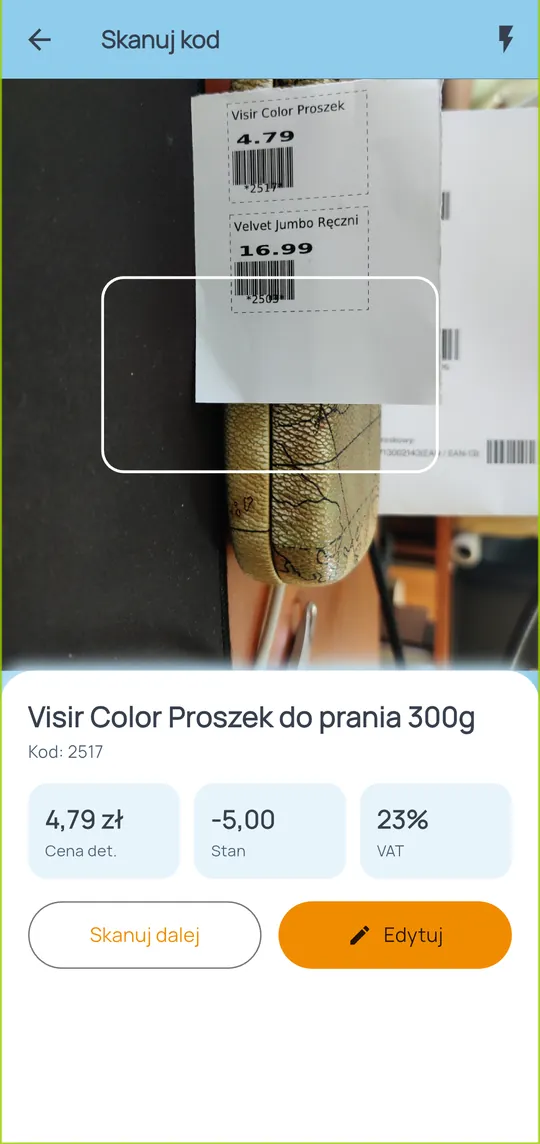
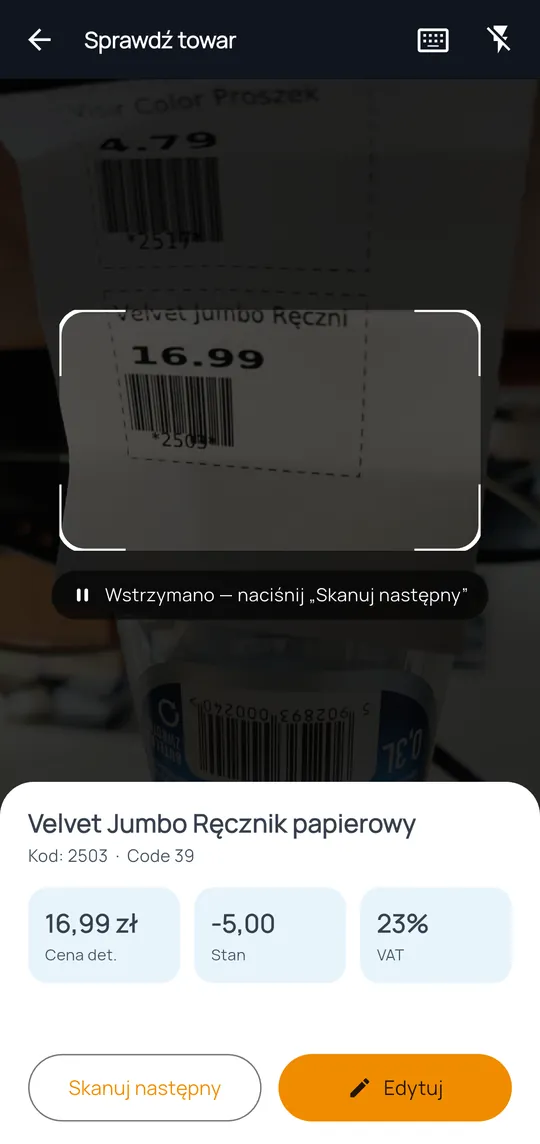
Strona i instrukcja: przebudowany skaner kodów
Zrzut skanera na stronie (`img/20-skaner.webp`) pokazywał starą wersję ekranu —
biały prostokąt bez maski i pusty pas pod kaflami. Nowy ma celownik z maską
i narożnikami, format odczytanego kodu i przyciski przypięte na dole.

Sekcja „Skaner przy półce" mówi teraz o trzech rzeczach, które w aplikacji
naprawdę się zmieniły i o które klienci pytają: czytany jest kod z ramki (a nie
dowolny z kadru), trafienie potwierdza bip i wibracja, a kod zniszczony można
wpisać z klawiatury bez wychodzenia ze skanera.

Instrukcja przebudowana z repo kodu — 67 zrzutów, w tym nowa karta „Skanowanie
do arkusza" i karta alergenów z ostrzeżeniem, że przy alergii decyduje etykieta
na opakowaniu.

Wchodzą też trzy zrzuty przygotowane w poprzedniej sesji (30–31.07), które
zostały wtedy niewypchnięte: obrót opakowaniami i tablet w poziomie.

diff --git a/instrukcja/index.html b/instrukcja/index.html
@@ -3,7 +3,7 @@
 <head>
 <meta charset="utf-8">
 <meta name="viewport" content="width=device-width, initial-scale=1">
-<title>NoviCloud GO 0.39.7 — instrukcja obsługi</title>
+<title>NoviCloud GO 0.40.1 — instrukcja obsługi</title>
 <meta name="description" content="Instrukcja obsługi aplikacji NoviCloud GO: logowanie, pulpit, raporty, dokumenty, towary ze skanerem, remanent, karty lojalnościowe, Doradca i powiadomienia.">
 <meta name="theme-color" content="#101a2a">
 <link rel="icon" href="../img/monogram.svg" type="image/svg+xml">
@@ -172,7 +172,7 @@ footer.stopka strong { color:var(--tekst); }
 <header class="masthead"><div class="in">
 <svg class="mono" viewBox="0 0 462 331" xmlns="http://www.w3.org/2000/svg" aria-hidden="true"><g transform="matrix(1,0,0,1,-663.574463,-1632.571019)"><g transform="matrix(1.787215,0,0,1.787215,-1527.551596,-574.639979)"><path d="M1397.571,1338.345L1398.017,1382.708C1398.046,1385.629 1396.193,1388.236 1393.426,1389.169C1390.658,1390.101 1387.605,1389.147 1385.861,1386.804L1349.142,1337.482C1341.616,1327.373 1329.756,1321.417 1317.154,1321.417L1298.08,1321.417C1287.238,1321.417 1278.448,1330.206 1278.448,1341.049L1278.448,1412.364C1278.448,1414.418 1277.481,1416.352 1275.838,1417.584C1274.194,1418.816 1272.066,1419.202 1270.095,1418.626C1244.641,1411.286 1226,1387.803 1226,1360C1226,1330.291 1247.285,1305.514 1275.423,1300.099C1279.368,1263.519 1310.38,1235 1348,1235C1381.4,1235 1409.591,1257.479 1418.256,1288.121C1454.912,1290.214 1484,1319.155 1484,1354.5C1484,1382.711 1465.469,1406.842 1439.35,1416.498C1437.341,1417.223 1435.103,1416.909 1433.372,1415.659C1431.64,1414.41 1430.637,1412.385 1430.691,1410.25C1431.042,1394.109 1431.31,1359.959 1431.447,1339.019L1435.829,1343.4C1439.408,1346.98 1445.211,1346.98 1448.791,1343.4L1451.524,1340.667C1453.069,1339.122 1453.938,1337.025 1453.938,1334.839C1453.938,1332.653 1453.069,1330.557 1451.524,1329.011L1422.896,1300.383C1417.859,1295.346 1409.692,1295.346 1404.656,1300.383L1377.011,1328.028C1373.867,1331.172 1373.867,1336.269 1377.011,1339.412L1381.107,1343.509C1384.228,1346.629 1389.286,1346.629 1392.407,1343.509L1397.571,1338.345ZM1356.995,1409.276C1358.694,1411.158 1359.124,1413.864 1358.094,1416.181C1357.064,1418.498 1354.767,1419.991 1352.231,1419.991C1341.77,1420 1327.518,1420 1319.228,1420C1315.493,1420 1312.454,1416.992 1312.417,1413.257L1311.968,1368.597C1311.941,1365.865 1313.673,1363.425 1316.261,1362.549C1318.849,1361.673 1321.707,1362.559 1323.345,1364.746C1323.345,1364.746 1344.753,1393.195 1356.995,1409.276Z" style="fill:currentColor;"/></g></g></svg>
 <h1>NoviCloud GO — instrukcja obsługi</h1>
-<span class="wersja">0.39.7</span>
+<span class="wersja">0.40.1</span>
 </div></header>
 <details class="spis-mobil" id="spis"><summary>Spis treści</summary><ol>
 <li><a href="#novicloud"><b>01</b>Przygotowanie konta NoviCloud</a></li>
@@ -253,7 +253,7 @@ footer.stopka strong { color:var(--tekst); }
 </section>
 <section id="raporty-sprzedaz"><header><span class="etykieta">Rozdział 07</span><h2>Raporty sprzedaży</h2><p>Zakładka <strong>Raporty</strong> to spis wszystkich zestawień. Każdy ma wybór okresu, większość także filtry i eksport.</p><a class="do-spisu" href="#spis">↑ Spis treści</a></header>
 <div class="krok"><img src="zrzuty/11-raporty-lista.webp" alt="Zrzut ekranu: Lista raportów" width="540" height="1144" loading="lazy"><div><span class="etykieta">Ekran</span><h3>Lista raportów</h3><ul><li>Na górze Raport dnia, niżej raporty szczegółowe.</li><li>Każda pozycja ma opis, więc nie musisz zgadywać, co zawiera.</li></ul></div></div>
-<div class="krok"><img src="zrzuty/11-raporty-lista-2.webp" alt="Zrzut ekranu: Dalsze raporty" width="1080" height="2400" loading="lazy"><div><span class="etykieta">Ekran</span><h3>Dalsze raporty</h3><ul><li>Po przewinięciu: rabaty, zwroty, kontrola cen na kasach, stany magazynowe, niskie stany i <strong>Zwroty DRS</strong>.</li></ul></div></div>
+<div class="krok"><img src="zrzuty/11-raporty-lista-2.webp" alt="Zrzut ekranu: Dalsze raporty" width="1080" height="2400" loading="lazy"><div><span class="etykieta">Ekran</span><h3>Dalsze raporty</h3><ul><li>Po przewinięciu: rabaty, zwroty, kontrola cen na kasach, stany magazynowe, niskie stany, <strong>Obrót opakowaniami</strong> i <strong>Zwroty DRS</strong>.</li></ul></div></div>
 <div class="krok"><img src="zrzuty/35-kontrola-cen.webp" alt="Zrzut ekranu: Kontrola cen na kasach" width="1080" height="2400" loading="lazy"><div><span class="etykieta">Ekran</span><h3>Kontrola cen na kasach</h3><ul><li>Odpowiada na pytanie „czy kasa sprzedaje po mojej cenie?”. Pokazuje towary sprzedane po innej cenie niż w katalogu oraz rozjazdy stawek VAT — z kwotą, która na tym uciekła („sprzedano taniej”) albo którą klient nadpłacił.</li><li>Okres wybierasz przyciskami <strong>Dziś / 7 / 14 / 30 dni</strong> albo własnym zakresem dat.</li><li>Nie zgłasza rabatów (porównuje cenę przed rabatem), sprzedaży po cenie hurtowej, nocnej i dodatkowej, opakowań ani różnic poniżej złotówki. Stuknięcie wiersza otwiera towar do poprawienia ceny; na dole ekranu widać, ile pozycji sprawdzono.</li></ul></div></div>
 <div class="krok"><img src="zrzuty/13-raport-sprzedazy.webp" alt="Zrzut ekranu: Raport sprzedaży" width="540" height="1144" loading="lazy"><div><span class="etykieta">Ekran</span><h3>Raport sprzedaży</h3><ul><li>Wybierz <strong>grupowanie</strong> (towar, asortyment, sklep, kasa, kasjer, forma płatności, VAT) i okres.</li><li>Każdy wiersz ma kwotę i udział procentowy w całości.</li><li>To najlepsze miejsce, gdy pytanie brzmi „co się sprzedaje”.</li></ul></div></div>
 <div class="krok"><img src="zrzuty/14-raport-sprzedazy-filtry.webp" alt="Zrzut ekranu: Filtry raportu" width="540" height="1144" loading="lazy"><div><span class="etykieta">Ekran</span><h3>Filtry raportu</h3><ul><li>Przycisk <strong>Filtry</strong> otwiera drzewko: sklepy, kasy, asortymenty i towary (z wyszukiwarką).</li><li>Filtry obowiązują wyniki na ekranie i eksport.</li><li>Liczba aktywnych filtrów pokazuje się na plakietce przy przycisku.</li></ul></div></div>
@@ -263,7 +263,9 @@ footer.stopka strong { color:var(--tekst); }
 <div class="krok"><img src="zrzuty/15-raport-kasjerski.webp" alt="Zrzut ekranu: Raport kasjerski" width="540" height="1144" loading="lazy"><div><span class="etykieta">Ekran</span><h3>Raport kasjerski</h3><ul><li>Przełącznik u góry zmienia analizę na kasjerów, kasy lub sklepy.</li><li>Kafelki: utarg, czas pracy, liczba paragonów i faktur, storna, anulowane.</li><li>Wiersz zmiany rozwiniesz, aby zobaczyć formy płatności oraz wpłaty i wypłaty gotówki.</li><li>Plakietkę „otwarta zmiana” dostaje tylko zmiana, którą NoviCloud jednoznacznie zgłasza jako niezamkniętą — jeśli taka wisi od dawna, zmiana nie została zamknięta na kasie.</li><li>Czas z niezamkniętej karty kasjerskiej jest przycinany do długości dnia lub okresu i podpisany „(niemiarodajny)” — ikona „i” u góry ekranu wyjaśnia szczegóły.</li></ul></div></div>
 <div class="krok"><img src="zrzuty/25-obrot-gotowki.webp" alt="Zrzut ekranu: Obrót gotówki" width="540" height="1144" loading="lazy"><div><span class="etykieta">Ekran</span><h3>Obrót gotówki</h3><ul><li>Cztery kafelki: utarg gotówką, wpłaty, wypłaty i saldo gotówki.</li><li>Niżej lista wszystkich operacji wpłat i wypłat z numerem dokumentu, datą, kasą i kasjerem.</li><li>Przydaje się przy rozliczaniu utargu i sprawdzaniu, kto pobierał gotówkę.</li></ul></div></div>
 <div class="krok"><img src="zrzuty/33-zakupy-dostawcy.webp" alt="Zrzut ekranu: Zakupy i dostawcy" width="1080" height="2400" loading="lazy"><div><span class="etykieta">Ekran</span><h3>Zakupy i dostawcy</h3><ul><li><strong>Płatności dostawcom</strong> — ile i komu masz zapłacić oraz co jest już po terminie. Liczone z całej pobranej historii dokumentów, nie z wybranego okresu: faktura sprzed pół roku może mieć termin za tydzień. Pod nagłówkiem widać, od jakiej daty aplikacja ma dokumenty.</li><li><strong>Zakupy w okresie</strong> — jedna karta to jedna operacja: dostawca, kwota i stan rozliczenia, a pod spodem powiązane dokumenty (faktura i jej przyjęcie PZ razem). Stuknięcie wiersza otwiera dokument.</li><li>Plakietka <strong>„bez faktury”</strong> przy przyjęciu PZ znaczy, że towar przyjęto, ale faktury zakupu do niego nie ma.</li><li>Stan „rozliczenie: ?” oznacza, że NoviCloud nie przysłał informacji o zapłacie — taka faktura nie wchodzi do sum, żeby kwota „do zapłaty” nie kłamała.</li><li>Przy włączonych powiadomieniach i alertach (Ustawienia → Powiadomienia) aplikacja przypomina o terminie <strong>3 dni przed i w dniu płatności</strong>. Opłacenie faktury usuwa przypomnienie samo.</li></ul></div></div>
-<div class="krok"><img src="zrzuty/34-zwroty-drs.webp" alt="Zrzut ekranu: Zwroty DRS" width="1080" height="2400" loading="lazy"><div><span class="etykieta">Ekran</span><h3>Zwroty DRS</h3><ul><li>Przyjęte opakowania zwrotne w systemie kaucyjnym: <strong>bony kaucyjne</strong> (każdy zwrot z kwotą, godziną i numerem bonu), <strong>worki DRS</strong> i rozliczenia opakowań z operatorem.</li><li><strong>Zwrócone opakowania</strong> pokazują, ile sztuk i za ile przyjęto w podziale na opakowania.</li><li>Ujemna pozycja kaucji na paragonie to zapłata bonem, więc nie jest liczona drugi raz.</li><li>Okres wybierasz przyciskami u góry; stuknięcie bonu otwiera dokument.</li></ul></div></div>
+<div class="krok"><img src="zrzuty/61-obrot-opakowaniami.webp" alt="Zrzut ekranu: Obrót opakowaniami" width="1080" height="2400" loading="lazy"><div><span class="etykieta">Ekran</span><h3>Obrót opakowaniami</h3><ul><li>Odpowiada na pytanie „ile kaucji jest u klientów”: ile opakowań zwrotnych <strong>wydano</strong>, ile <strong>przyjęto</strong> z powrotem i jakie jest <strong>saldo</strong> — w sztukach i w złotych.</li><li>Okres wybierasz przyciskami <strong>Dziś / 7 / 14 / 30 dni / Ten miesiąc</strong> albo własnym zakresem dat.</li><li>Ramka na górze mówi wprost, czego raport NIE liczy: opakowań kaucyjnych DRS i jednorazowych SUP. NoviCloud przez API nie podaje jeszcze ich rodzaju, więc aplikacja nie ma jak odróżnić ich od zwykłego towaru — obsługa w API jest w trakcie rozwoju. Przycisk <strong>Zwroty DRS</strong> przenosi do raportu kaucyjnego.</li></ul></div></div>
+<div class="krok"><img src="zrzuty/61-obrot-opakowaniami-2.webp" alt="Zrzut ekranu: Rozbicie na opakowania" width="1080" height="2400" loading="lazy"><div><span class="etykieta">Ekran</span><h3>Rozbicie na opakowania</h3><ul><li>Każde opakowanie ma trzy kolumny: <strong>Rozchód</strong> (wydane), <strong>Przychód</strong> (przyjęte) i <strong>Saldo</strong>, a pod każdą liczbą sztuk jest kwota.</li><li>Ujemne saldo (na czerwono) znaczy, że przyjęto więcej opakowań, niż wydano — na przykład po zwrotach z poprzedniego okresu.</li><li>Eksport PDF i CSV — ikona udostępniania w prawym górnym rogu.</li><li>Wartości są <strong>netto</strong>; przy opakowaniach zwolnionych z VAT netto równa się brutto. Liczone z paragonów i faktur (faktury do paragonów pominięte, żeby nie policzyć tej samej sprzedaży dwa razy); przyjęcia magazynowe PZ nie wchodzą — dokładnie tak jak w raporcie obrotu opakowaniami w NoviCloud.</li></ul></div></div>
+<div class="krok"><img src="zrzuty/34-zwroty-drs.webp" alt="Zrzut ekranu: Zwroty DRS" width="1080" height="2400" loading="lazy"><div><span class="etykieta">Ekran</span><h3>Zwroty DRS</h3><ul><li>Przyjęte opakowania zwrotne w systemie kaucyjnym: <strong>bony kaucyjne</strong> (każdy zwrot z kwotą, godziną i numerem bonu), <strong>worki DRS</strong> i rozliczenia opakowań z operatorem.</li><li><strong>Zwrócone opakowania</strong> pokazują, ile sztuk i za ile przyjęto w podziale na opakowania.</li><li>Ujemna pozycja kaucji na paragonie to zapłata bonem, więc nie jest liczona drugi raz.</li><li>Okres wybierasz przyciskami u góry; stuknięcie bonu otwiera dokument.</li><li>Na górze ekranu jest ostrzeżenie: <strong>obsługa opakowań kaucyjnych w API NoviCloud jest w trakcie rozwoju</strong>. API nie podaje rodzaju opakowania, więc zwroty liczymy z dokumentów kaucyjnych — jeśli kasy ich nie wystawiają, ekran pokaże zero.</li><li>Klasyczne opakowania zwrotne (butelki z kaucją oznaczone w kartotece jako <em>opakowanie</em>) mają osobny raport <strong>Obrót opakowaniami</strong>: ile wydano klientom, ile przyjęto z powrotem i jakie jest saldo — w sztukach i w złotych, z eksportem PDF/CSV. Liczby zgadzają się z raportem obrotu opakowaniami w NoviCloud.</li></ul></div></div>
 </section>
 <section id="raporty-klienci"><header><span class="etykieta">Rozdział 09</span><h2>Klienci, rabaty i zwroty</h2><p>Zestawienia, które pokazują, komu sprzedajesz i gdzie uciekają pieniądze. Wszystkie znajdziesz w zakładce <strong>Raporty</strong>, pod nazwami z podpisów poniżej.</p><a class="do-spisu" href="#spis">↑ Spis treści</a></header>
 <div class="krok"><img src="zrzuty/26-sprzedaz-karty-rabatowe.webp" alt="Zrzut ekranu: Sprzedaż wg kart rabatowych" width="540" height="1144" loading="lazy"><div><span class="etykieta">Ekran</span><h3>Sprzedaż wg kart rabatowych</h3><ul><li>Przyciski <strong>Wszystkie / Z kartą / Bez karty</strong> decydują, które paragony liczyć.</li><li>Kafelki podają brutto, netto, VAT, marżę, ilość i liczbę pozycji.</li><li>Odpowiada na pytanie, jaka część obrotu idzie na karty lojalnościowe.</li></ul></div></div>
@@ -282,14 +284,15 @@ footer.stopka strong { color:var(--tekst); }
 <section id="towary"><header><span class="etykieta">Rozdział 12</span><h2>Towary i skaner</h2><p>Katalog towarów z Twojego NoviCloud wraz z cenami i stanami, plus skaner kodów do sprawdzania towaru w kilka sekund.</p><a class="do-spisu" href="#spis">↑ Spis treści</a></header>
 <div class="krok"><img src="zrzuty/18-towary-lista.webp" alt="Zrzut ekranu: Katalog towarów" width="540" height="1144" loading="lazy"><div><span class="etykieta">Ekran</span><h3>Katalog towarów</h3><ul><li>Szukaj po nazwie lub kodzie; filtruj po statusie i dziale.</li><li>Liczba pozycji widoczna jest u góry ekranu.</li></ul></div></div>
 <div class="krok"><img src="zrzuty/19-towar-szczegoly.webp" alt="Zrzut ekranu: Karta towaru" width="540" height="1144" loading="lazy"><div><span class="etykieta">Ekran</span><h3>Karta towaru</h3><ul><li>Cena detaliczna, stawka VAT, jednostka miary, dział i kod EAN.</li><li>Skróty prowadzą do historii sprzedaży i informacji o produkcie.</li><li>Przycisk <strong>Edytuj towar</strong> zmienia dane z telefonu, a nowy towar dodasz kafelkiem <strong>Dodaj towar</strong> na pulpicie — obie operacje wymagają włączonego <em>Zapisu do NoviCloud</em> (subskrypcja „API W”).</li></ul></div></div>
-<div class="krok"><img src="zrzuty/20-skaner.webp" alt="Zrzut ekranu: Skaner kodów" width="540" height="1144" loading="lazy"><div><span class="etykieta">Ekran</span><h3>Skaner kodów</h3><ul><li>Skieruj telefon na kod kreskowy — zobaczysz nazwę, cenę, stan i VAT.</li><li><strong>Skanuj dalej</strong> pozwala sprawdzać kolejne towary bez wychodzenia z ekranu.</li><li>Ikona błyskawicy włącza doświetlenie.</li></ul></div></div>
+<div class="krok"><img src="zrzuty/20-skaner.webp" alt="Zrzut ekranu: Skaner kodów" width="540" height="1144" loading="lazy"><div><span class="etykieta">Ekran</span><h3>Skaner kodów</h3><ul><li>Skieruj telefon tak, żeby kod był <strong>w ramce</strong> — zobaczysz nazwę, cenę, stan i VAT. Czytany jest kod najbliżej środka ramki, więc etykieta sąsiedniego towaru nie wchodzi przez pomyłkę; gdy w ramce widać dwa kody, aplikacja poprosi o zbliżenie aparatu do jednego.</li><li>Trafienie potwierdza <strong>bip i wibracja</strong>, a ramka mruga na zielono — nie trzeba patrzeć na ekran przy każdym kodzie.</li><li><strong>Skanuj następny</strong> wraca do skanowania. Dopóki wynik jest na ekranie, podgląd jest przygaszony z napisem „Wstrzymano”.</li><li>Ikona klawiatury pozwala <strong>wpisać kod ręcznie</strong>, gdy etykieta jest zniszczona albo zalana; ikona błyskawicy włącza doświetlenie i pokazuje, czy świeci.</li><li>Kod z wagi etykietującej (13 znaków od cyfry 2) aplikacja rozpoznaje i mówi wprost, że takiego kodu nie ma i nie będzie w katalogu — waga drukuje inny na każdej etykiecie.</li></ul></div></div>
 <div class="krok"><img src="zrzuty/37-historia-sprzedazy-towaru.webp" alt="Zrzut ekranu: Historia sprzedaży towaru" width="540" height="1144" loading="lazy"><div><span class="etykieta">Ekran</span><h3>Historia sprzedaży towaru</h3><ul><li>Ile sztuk i za ile sprzedał się dany towar w wybranym okresie — przełącznik u góry: 30, 90 lub 365 dni — wraz ze średnią ceną i sumą rabatów.</li><li>Wykres tygodniowy pokazuje, czy sprzedaż rośnie, czy siada.</li><li>Dobra odpowiedź na pytanie „czy warto to jeszcze zamawiać”.</li></ul></div></div>
-<div class="krok"><img src="zrzuty/38-open-food-facts.webp" alt="Zrzut ekranu: Info o produkcie" width="540" height="1144" loading="lazy"><div><span class="etykieta">Ekran</span><h3>Info o produkcie</h3><ul><li>Po kodzie EAN aplikacja pobiera opis z ogólnodostępnej bazy Open Food Facts.</li><li>Widzisz zdjęcie, markę, pojemność, wartości odżywcze i alergeny.</li><li>Przydaje się, gdy klient pyta o skład, a opakowania nie ma pod ręką.</li></ul></div></div>
+<div class="krok"><img src="zrzuty/38-open-food-facts.webp" alt="Zrzut ekranu: Info o produkcie" width="540" height="1144" loading="lazy"><div><span class="etykieta">Ekran</span><h3>Info o produkcie</h3><ul><li>Po kodzie EAN aplikacja pobiera opis z ogólnodostępnej bazy Open Food Facts.</li><li>Widzisz zdjęcie, markę, pojemność, wartości odżywcze i alergeny.</li><li>Karta <strong>Alergeny</strong> jest zawsze widoczna: nazwy po polsku, osobno „może zawierać (śladowe ilości)”, a gdy baza nie ma danych — mówi to wprost, zamiast wyglądać jak produkt bez alergenów.</li><li>To dane społecznościowe, więc przy alergii decyduje etykieta na opakowaniu — aplikacja przypomina o tym przy każdym produkcie.</li><li>Przydaje się, gdy klient pyta o skład, a opakowania nie ma pod ręką.</li></ul></div></div>
 <div class="krok"><img src="zrzuty/34-towary-menu.webp" alt="Zrzut ekranu: Menu narzędzi katalogu" width="540" height="1144" loading="lazy"><div><span class="etykieta">Ekran</span><h3>Menu narzędzi katalogu</h3><ul><li>Ikona z trzema kropkami otwiera narzędzia dotyczące całej bazy.</li><li>Znajdziesz tu plik magazynowy, generowanie etykiet oraz eksporty listy towarów do PDF, CSV i Excela.</li></ul></div></div>
 </section>
 <section id="etykiety-remanent"><header><span class="etykieta">Rozdział 13</span><h2>Etykiety cenowe i remanent</h2><p>Dwa narzędzia do pracy przy półce i w magazynie — oba dostępne z menu narzędzi w zakładce Towary.</p><a class="do-spisu" href="#spis">↑ Spis treści</a></header>
 <div class="krok"><img src="zrzuty/35-etykiety-cenowe.webp" alt="Zrzut ekranu: Etykiety cenowe" width="540" height="1144" loading="lazy"><div><span class="etykieta">Ekran</span><h3>Etykiety cenowe</h3><ul><li>Wybierz format: <strong>arkusz A4</strong> (wiele etykiet na kartce) albo <strong>pojedyncze 57×32 mm</strong> na drukarkę etykiet.</li><li>Przełącznikami decydujesz, czy na etykiecie ma być kod kreskowy i cena za jednostkę.</li><li>Towary dobierasz wyszukiwarką; „Zaznacz widoczne” dodaje całą listę.</li></ul></div></div>
 <div class="krok"><img src="zrzuty/36-plik-magazynowy.webp" alt="Zrzut ekranu: Plik magazynowy (remanent)" width="540" height="1144" loading="lazy"><div><span class="etykieta">Ekran</span><h3>Plik magazynowy (remanent)</h3><ul><li>Arkusz roboczy do remanentu i przyjęć towaru; pasek u góry liczy pozycje, ilość i wartość.</li><li>Towary dodajesz skanerem, z bazy albo ręcznie.</li><li>Ikona pobierania <strong>importuje arkusz z pliku</strong>: CSV Inwentaryzator, NoviCloud (cm-towary) albo format własny — z wyborem „dołącz” lub „zastąp”.</li><li>Zaimportowane pozycje dopasowują się do bazy po kodzie/EAN; przy różnicy nazwy lub ceny wybierasz, czy zostawić dane z pliku, czy z bazy.</li><li>Arkusz zapisuje się sam, a wynik wyeksportujesz do CSV, XLSX lub PDF.</li><li>Ten sam ekran działa też bez logowania — patrz rozdział 3.</li></ul></div></div>
+<div class="krok"><img src="zrzuty/62-skaner-do-arkusza.webp" alt="Zrzut ekranu: Skanowanie do arkusza" width="540" height="1144" loading="lazy"><div><span class="etykieta">Ekran</span><h3>Skanowanie do arkusza</h3><ul><li>Przycisk <strong>Skanuj</strong> otwiera skaner pracujący seriami: kod trafia do arkusza razem z ilością i cenami, a Ty od razu celujesz w następny towar.</li><li><strong>Ilość</strong> wpisujesz z klawiatury (także ułamkowo, dla towarów ważonych) albo skrótami <strong>×6 ×10 ×12 ×24</strong> — karton nie wymaga klikania plusa czterdzieści razy.</li><li>Ceny zakupu i sprzedaży są podpowiedziane z katalogu i można je poprawić przed dodaniem.</li><li>Po dodaniu masz kilkanaście sekund na <strong>COFNIJ</strong> — pasek pojawia się nad podglądem i wycofuje dokładnie tę ilość.</li><li>Na dole widać licznik dodanych pozycji i przycisk <strong>Gotowe</strong>, który wraca do arkusza.</li><li>Gdy kilka kodów pod rząd nie istnieje w katalogu, aplikacja podpowie, co zrobić: zalogowanym proponuje odświeżenie wykazów z NoviCloud, a w trybie inwentaryzatora — wczytanie świeższego pliku CSV.</li></ul></div></div>
 </section>
 <section id="karty"><header><span class="etykieta">Rozdział 14</span><h2>Karty lojalnościowe</h2><p>Kartoteka kart klientów. Funkcja wymaga modułu <strong>PC-Loyalty</strong> w NoviCloud — bez niego aplikacja wyraźnie o tym poinformuje.</p><a class="do-spisu" href="#spis">↑ Spis treści</a></header>
 <div class="krok"><img src="zrzuty/40-karty-lojalnosciowe.webp" alt="Zrzut ekranu: Lista kart" width="540" height="1144" loading="lazy"><div><span class="etykieta">Ekran</span><h3>Lista kart</h3><ul><li>Każdy wiersz to posiadacz karty oraz jej numer i kontakt.</li><li>Pole <strong>Szukaj</strong> obsługuje kod, nazwisko i telefon, a ikona skanera pozwala odnaleźć kartę przez zeskanowanie.</li><li>Przycisk <strong>Nowa karta</strong> (widoczny przy włączonym <em>Zapisie do NoviCloud</em>) zakłada kartę z telefonu: <strong>Zaproponuj numer</strong> generuje unikalny kod EAN-13, albo zeskanuj gotową, nieużywaną kartę.</li><li>Po zapisaniu karta od razu działa na kasach.</li></ul></div></div>
@@ -326,7 +329,7 @@ footer.stopka strong { color:var(--tekst); }
 <div class="krok"><img src="zrzuty/40-karty-lojalnosciowe.webp" alt="Zrzut ekranu: Komunikat „ta funkcja wymaga modułu…”" width="540" height="1144" loading="lazy"><div><span class="etykieta">Ekran</span><h3>Komunikat „ta funkcja wymaga modułu…”</h3><ul><li>Karty lojalnościowe wymagają modułu <strong>PC-Loyalty</strong>, a każdy zapis (nowe karty, edycja, blokada, towary) — subskrypcji <strong>„API W”</strong> i włączonego <em>Zapisu do NoviCloud</em> w Ustawieniach.</li><li>Moduły i subskrypcje włącza się po stronie NoviCloud: listę swoich modułów zobaczysz na <em>Administracja → NoviCloud → Subskrypcja</em> (rozdział 1), a brakujący zamawia opiekun handlowy albo helpdesk.</li></ul></div></div>
 <div class="krok"><img src="zrzuty/47-dziennik-zdarzen.webp" alt="Zrzut ekranu: Nic z powyższego nie pomaga" width="540" height="1144" loading="lazy"><div><span class="etykieta">Ekran</span><h3>Nic z powyższego nie pomaga</h3><ul><li>Wyślij <strong>Dziennik zdarzeń</strong> (Ustawienia → Dziennik zdarzeń → udostępnij) na <strong>next@novitus.pl</strong> z krótkim opisem, co się działo.</li><li>Jeśli problem jest po stronie NoviCloud albo kasy (moduł, subskrypcja, brak transmisji) — zadzwoń na helpdesk <strong>22 113 95 69</strong>. W aplikacji: Ustawienia → Pomoc → „Helpdesk NoviCloud i kasy” dzwoni jednym stuknięciem.</li><li>Ostatnia deska ratunku: <strong>Rozłącz konto</strong> i ponowne logowanie — usuwa dane lokalne (w NoviCloud nic nie ginie) i pobiera wszystko od nowa.</li></ul></div></div>
 </section>
-<footer class="stopka"><p><strong>Pytania i zgłoszenia (aplikacja):</strong> next@novitus.pl — najszybciej pomożemy z załączonym dziennikiem zdarzeń (Ustawienia → Dziennik zdarzeń → Udostępnij).</p><p><strong>Helpdesk NoviCloud i kasy Next One:</strong> 22 113 95 69 — moduły i subskrypcje, konfiguracja, transmisja danych z kas.</p><p>Dane i wyliczenia w aplikacji mają charakter pomocniczy; w razie wątpliwości weryfikuj je w NoviCloud.</p><p>NoviCloud GO 0.39.7 · instrukcja z 30 lipca 2026, na podstawie zrzutów z urządzenia z Androidem.</p></footer>
+<footer class="stopka"><p><strong>Pytania i zgłoszenia (aplikacja):</strong> next@novitus.pl — najszybciej pomożemy z załączonym dziennikiem zdarzeń (Ustawienia → Dziennik zdarzeń → Udostępnij).</p><p><strong>Helpdesk NoviCloud i kasy Next One:</strong> 22 113 95 69 — moduły i subskrypcje, konfiguracja, transmisja danych z kas.</p><p>Dane i wyliczenia w aplikacji mają charakter pomocniczy; w razie wątpliwości weryfikuj je w NoviCloud.</p><p>NoviCloud GO 0.40.1 · instrukcja z 3 sierpnia 2026, na podstawie zrzutów z urządzenia z Androidem.</p></footer>
 </main></div>
 <script>document.querySelectorAll('.spis-mobil a').forEach(function(a){a.addEventListener('click',function(){document.getElementById('spis').removeAttribute('open');});});</script>
 </body>

diff --git a/index.html b/index.html
@@ -506,6 +506,9 @@ document.documentElement.classList.add('js');
         <p>Klient pyta o cenę, a Ty nie musisz wracać do kasy.</p>
         <ul>
           <li>Po zeskanowaniu kodu widzisz nazwę, cenę, stan i stawkę VAT</li>
+          <li>Czytany jest kod z ramki, więc etykieta obok nie wchodzi przez pomyłkę</li>
+          <li>Trafienie potwierdza bip i wibracja — nie trzeba patrzeć na ekran</li>
+          <li>Kod zniszczony? Wpiszesz go z klawiatury bez wychodzenia ze skanera</li>
           <li>Tryb ciągły — kolejne towary sprawdzasz jednym ruchem</li>
           <li>Dla produktów spożywczych podejrzysz skład i alergeny</li>
         </ul>
